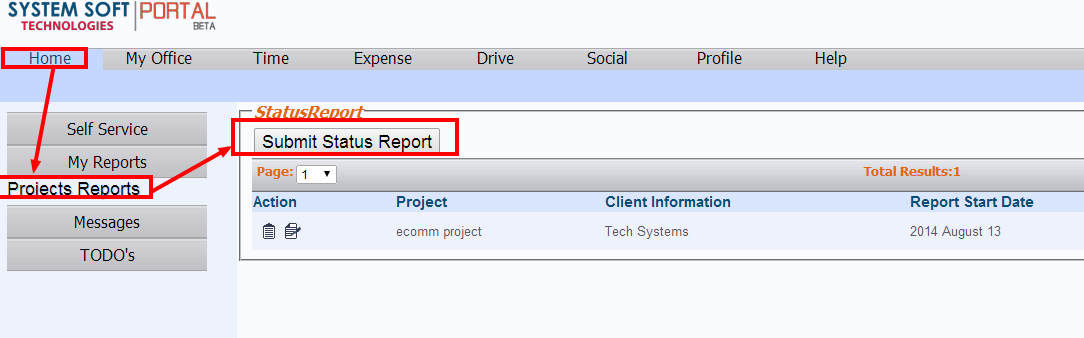
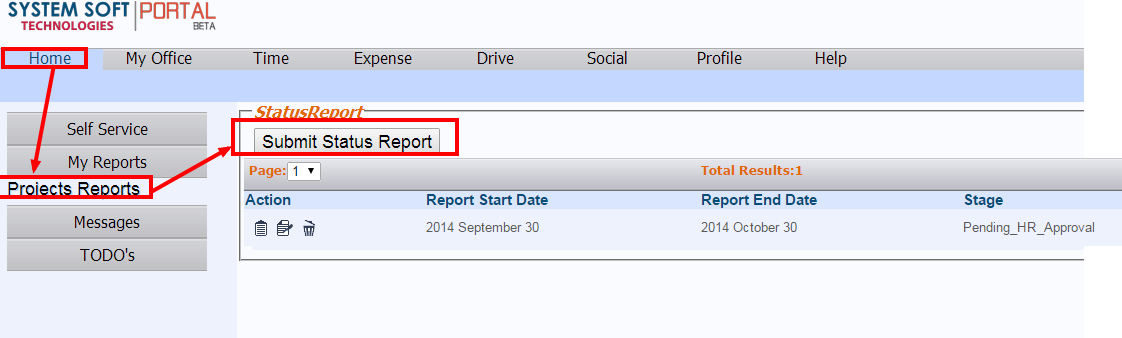
git-svn-id: http://tools.sstech.us/svn/office/trunk@4870 04aae24c-3eb2-d842-8c26-b4285eb26770

diff --git a/office-master/office-doc/src/site/markdown/office/statusreport/statusreport.md b/office-master/office-doc/src/site/markdown/office/statusreport/statusreport.md
@@ -24,15 +24,14 @@ How To Submit Project Status Report
 
 Submit Project Status Report
 ----
+
+Once Employee Fill The All Required Details. Emplyee Can save the preview and Save the data .
 ![alt text](../../images/statusreport/Status_Report.png "Submit Status Report")
 
 Update Status Report in response to Comment
 ----
-![alt text](../../images/statusreport/update-report.png "Update Status Report")
+![alt text](../../images/statusreport/Add_Hr_Comment.png "Status Report")
 
-Add Comment
-----
-![alt text](../../images/statusreport/add-comment.png "Add comment")
 
 Print Status Report
 ===========

diff --git a/office-master/office-doc/src/site/markdown/office/statusreport/statusreportprocess.md b/office-master/office-doc/src/site/markdown/office/statusreport/statusreportprocess.md
@@ -11,12 +11,12 @@ Project Status Process
  How to view Report.
 ----
 ![alt text](../../images/statusreport/review-report-1.png "Status Report")
-![alt text](../../images/statusreport/review-report-2.png "Status Report")
+![alt text](../../images/statusreport/Status_Report_view.png "Status Report")
 
- How to Review Report
+ How to Review Report and Add Comment
 ----
  
-![alt text](../../images/statusreport/add-comment.png "Status Report")
+![alt text](../../images/statusreport/Add_Hr_Comment.png "Status Report")
 
 How to Approve Status Report
 ----
